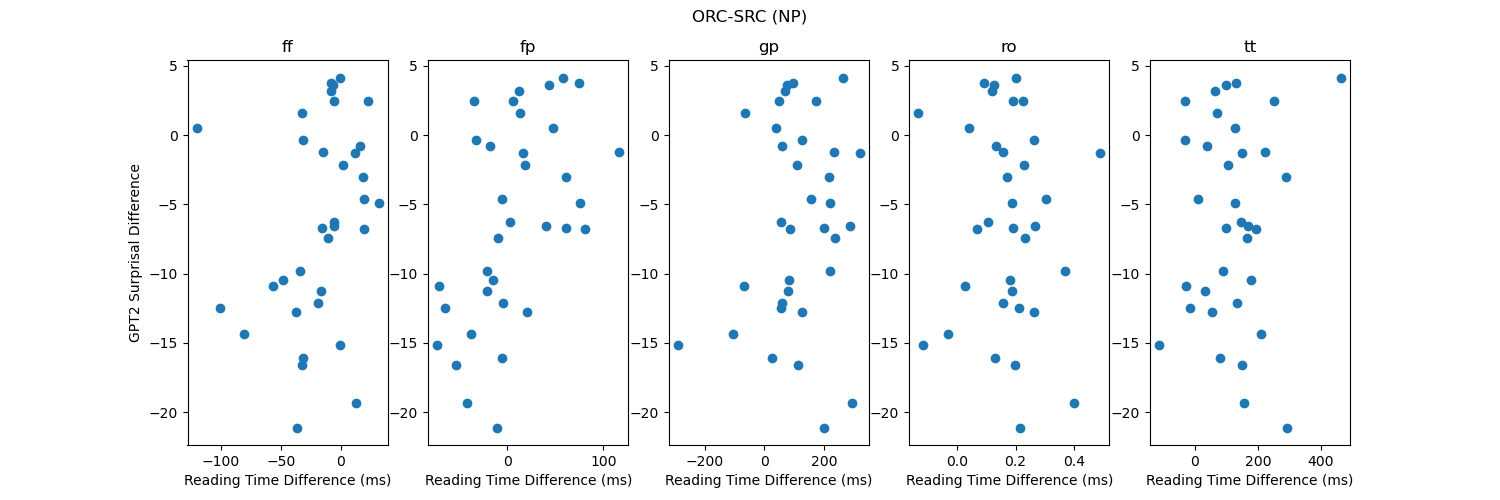
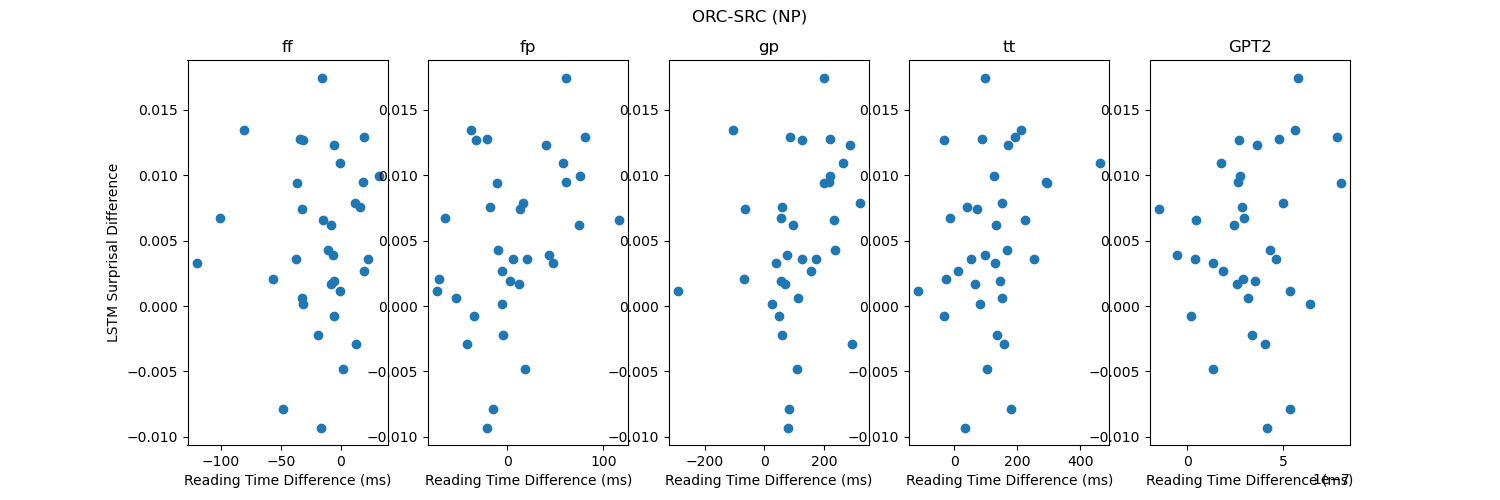
adding LSTM to plots

diff --git a/utils/lstm_utils.py b/utils/lstm_utils.py
@@ -17,18 +17,20 @@ np.random.seed(50360)
 torch.backends.cudnn.deterministic = True
 torch.backends.cudnn.benchmark = False
 
-def surprisal_of_words_norm(word_idxs, next_token_logit_list):
+raw = True 
+
+def surprisal_of_words_norm(word_idxs, next_token_scores_list):
     num = 0
     denom = 0
-    # assert(len(word_idxs) == len(next_token_logit_list))
-    # for i, word_idx in enumerate(word_idxs):
-    #     num += next_token_logit_list[i][0][word_idx]
-    #     denom += torch.sum(next_token_logit_list[i])
-    # if raw:
-    #     return float(num/len(word_idxs))
-    # # F.softmax(next_word_scores, dim=0)
-    # return float(num/denom)
-    return 1
+    assert(len(word_idxs) == len(next_token_scores_list))
+    for i, word_idx in enumerate(word_idxs):
+        num += next_token_scores_list[i][word_idx]
+        denom += torch.sum(next_token_scores_list[i])
+        # print(f'score = {next_token_scores_list[i][word_idx]}, scores sum = {torch.sum(next_token_scores_list[i])}')
+    if raw:
+        return float(1/(num/len(word_idxs)))
+    else:
+        return float(1/(denom-num))
 
 def get_query_surprise(intro, query, model, dictionary):
     intro, query = intro.split(), query.split()
@@ -44,8 +46,8 @@ def get_query_surprise(intro, query, model, dictionary):
                     for w in query]
     query_next_token_scores = []
     for query_token in tokenized_query:
-        print(f'intro: {[dictionary.idx2word[w] for w in tokenized_intro]}')
-        print(f'query: {dictionary.idx2word[query_token]}')
+        # print(f'intro: {[dictionary.idx2word[w] for w in tokenized_intro]}')
+        # print(f'query: {dictionary.idx2word[query_token]}')
 
         input = torch.tensor(tokenized_intro, dtype=torch.long).cuda()
 
@@ -53,6 +55,14 @@ def get_query_surprise(intro, query, model, dictionary):
         cur_sentence_output, cur_sentence_hidden = model(input.view(-1, 1), # (sequence_length, batch_size).
                             model.init_hidden(1)) # one input at a time, thus batch_size = 1
         next_word_scores = cur_sentence_output[-1].view(-1)
+        # print(next_word_scores)
+        if raw:
+            min_score, max_score = min(next_word_scores), max(next_word_scores) 
+            if min_score < 0:
+                # shift all scores to be positive
+                next_word_scores = next_word_scores - min_score
+        else:
+            next_word_scores = F.softmax(next_word_scores, dim=0)
         query_next_token_scores.append(next_word_scores.detach())
         tokenized_intro.append(query_token)
     query_surprise = surprisal_of_words_norm(tokenized_query, query_next_token_scores)

diff --git a/utils/graph_utils.py b/utils/graph_utils.py
@@ -71,14 +71,12 @@ def plot_scatterplots(title, lm, x_data, y_data, plot_titles,  save_location=Non
         plt.savefig(save_location)
     plt.show()
 
-def print_scatterplots(segment_type):
+def print_scatterplots(segment_type, lm):
     title = f"ORC-SRC ({segment_type})"
-    lm = "GPT2"
     save_location = f"plots/ORC-SRC({segment_type})_scatter"
-
     x_data, y_data = [], []
     data = json.load(open("data/augmented_data.json"))
-    x_measurements = [measure for measure in measurements if measure != 'GPT2']
+    x_measurements = [measure for measure in measurements if (measure != lm and measure != "ro")]
     # items = [item for item in data["ORC"].keys() if item != "14"]
     items = data["ORC"]
     for measure in x_measurements:
@@ -88,9 +86,11 @@ def print_scatterplots(segment_type):
     plot_scatterplots(title, lm, x_data, y_data, x_measurements, save_location=save_location)
     
 if __name__ == "__main__":
-    print_box_and_whisker("NP")
-    print_box_and_whisker("verb")
-    print_bar_graph("NP")
-    print_bar_graph("verb")
-    print_scatterplots("NP")
-    print_scatterplots("verb")
+    # print_box_and_whisker("NP")
+    # print_box_and_whisker("verb")
+    # print_bar_graph("NP")
+    # print_bar_graph("verb")
+    # print_scatterplots("NP","GPT2")
+    # print_scatterplots("verb", "GPT2")
+    print_scatterplots("NP","LSTM")
+    print_scatterplots("verb", "LSTM")

diff --git a/run_models.py b/run_models.py
@@ -3,6 +3,7 @@ import token
 import numpy as np
 import copy
 import torch
+import os
 import argparse
 # import transformers
 from transformers import pipeline, AutoTokenizer, AutoModelForCausalLM
@@ -13,8 +14,13 @@ import utils.lstm_utils as lstm_utils
 # from models.LSTM import run_lstm
 
 # process human reading data
-data = super_average_data(process_data())
-with open('data/augmented_data.json', "w+") as f:
+fname = 'data/augmented_data.json'
+if os.path.isfile(fname):
+    data = json.load(open('data/augmented_data.json'))
+else:
+    data = super_average_data(process_data())
+
+with open(fname, "w+") as f:
     json.dump(data, f)
 
 def add_model_measures(model_type, data):
